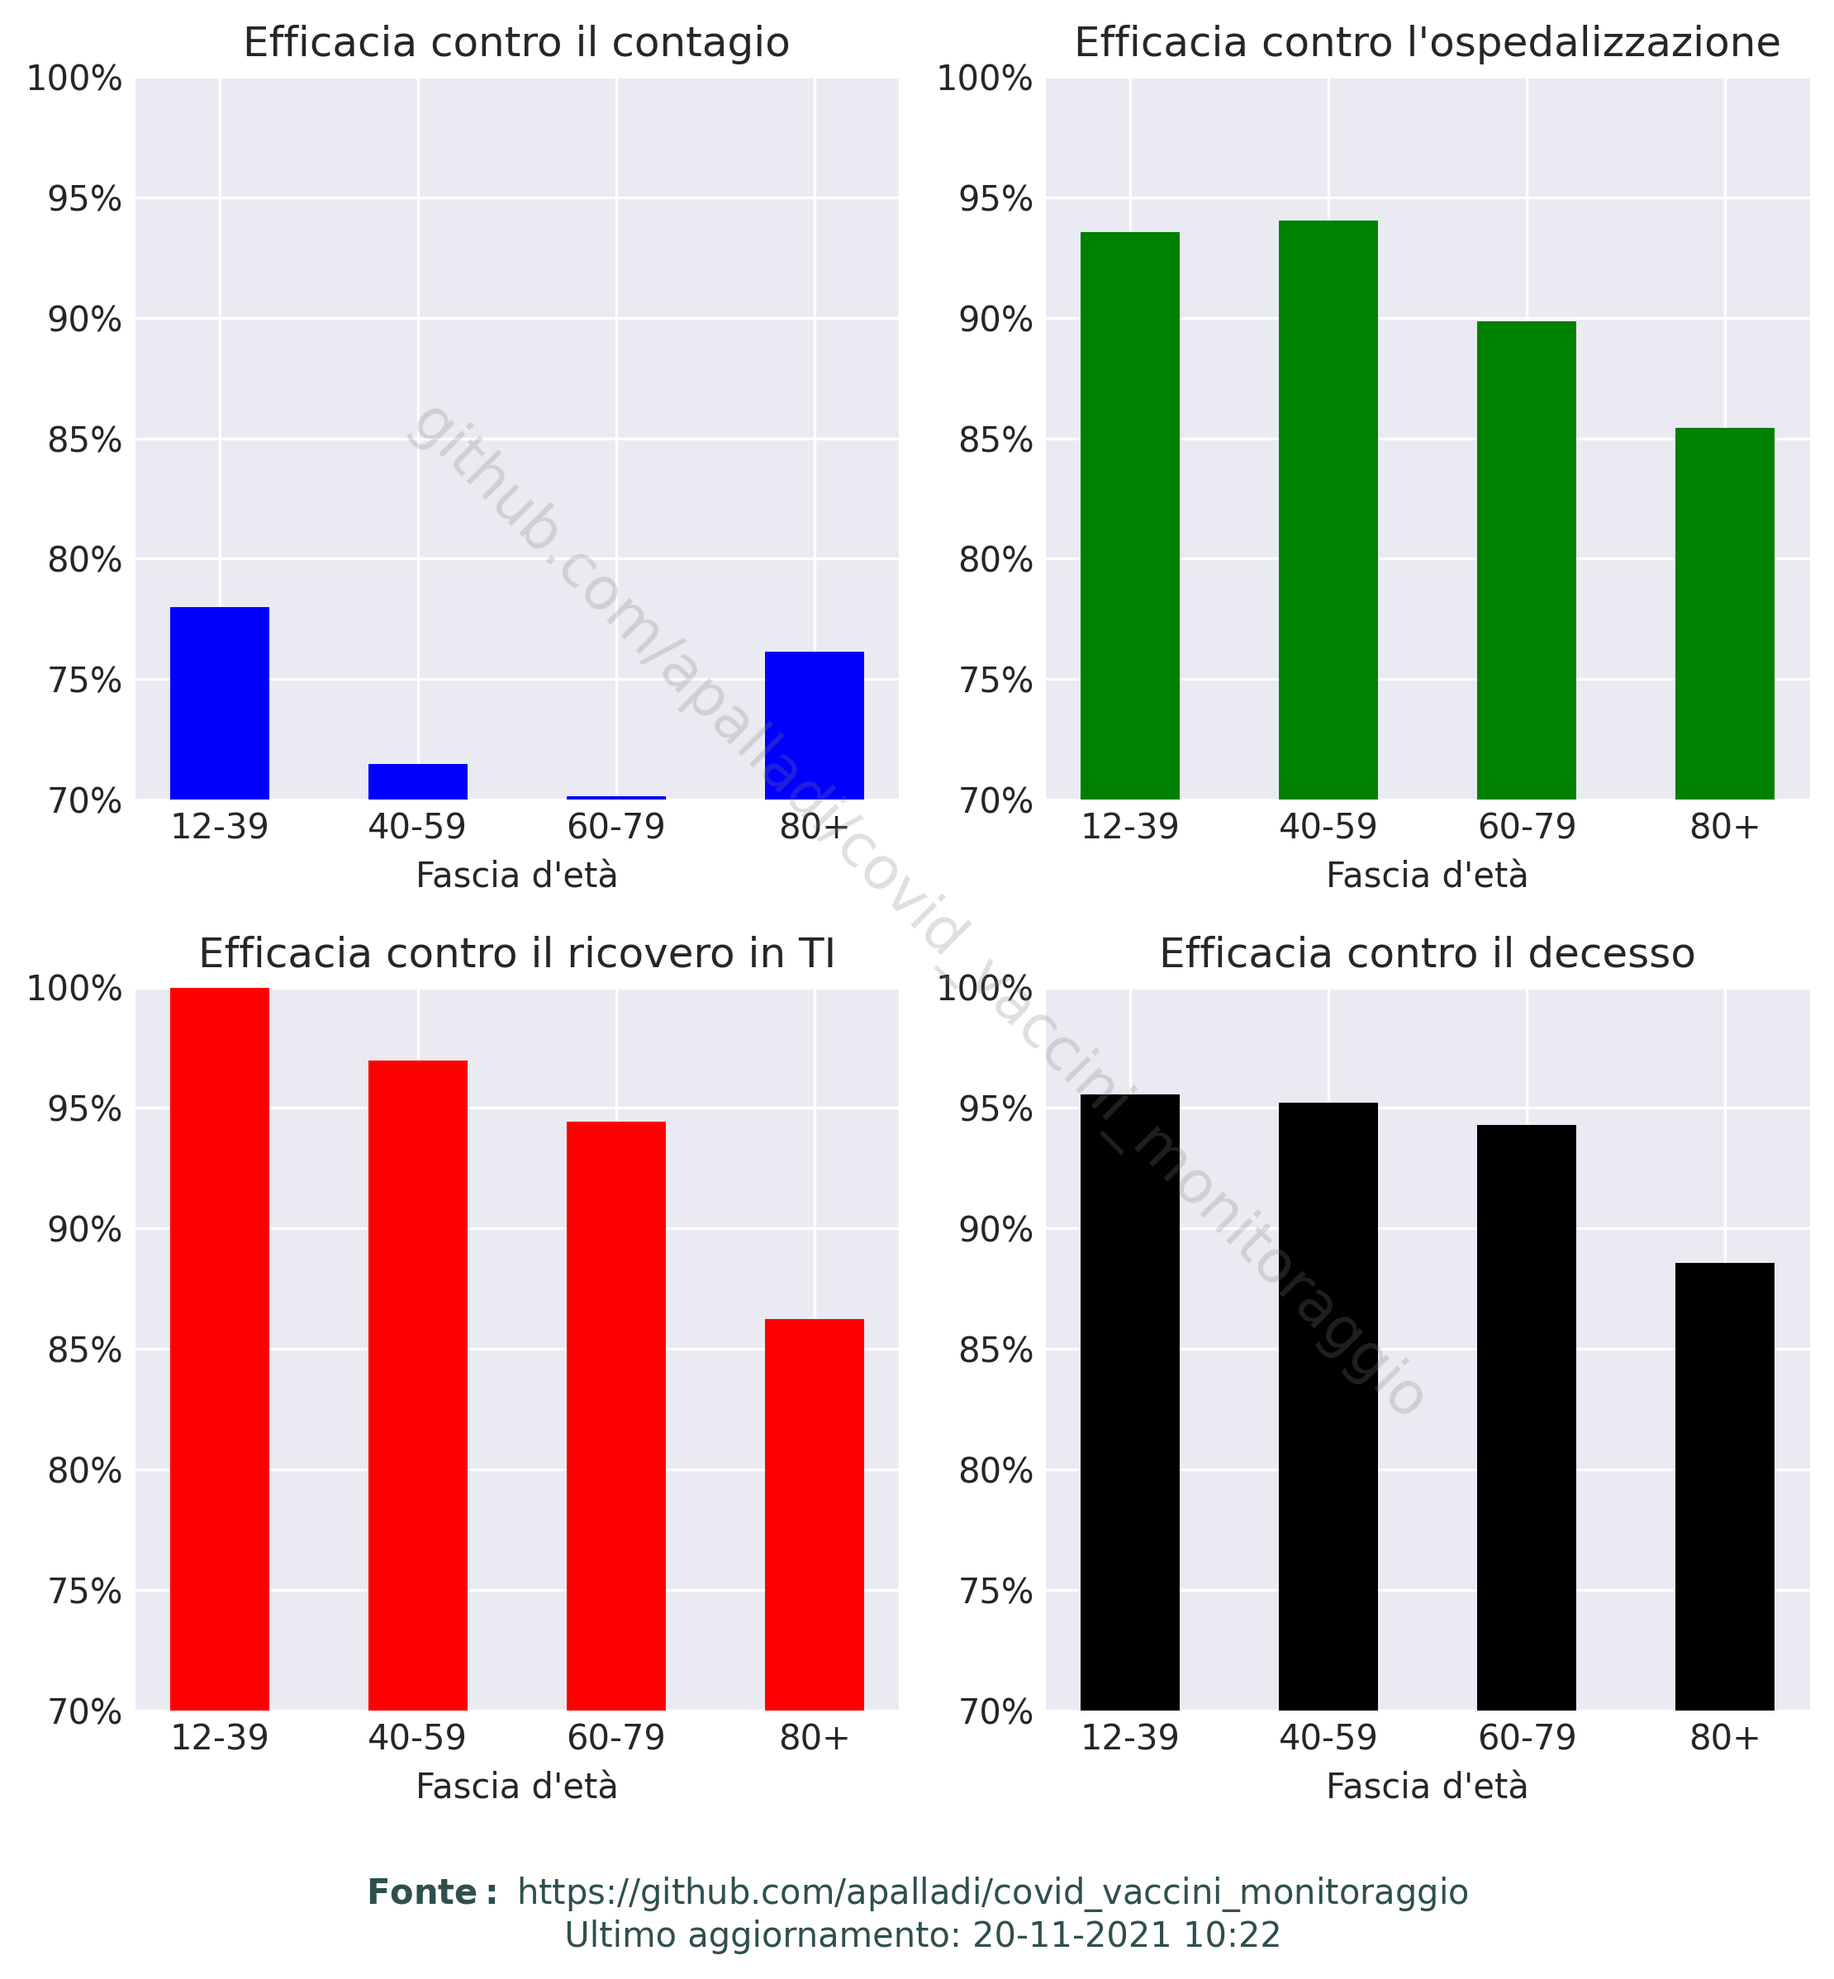
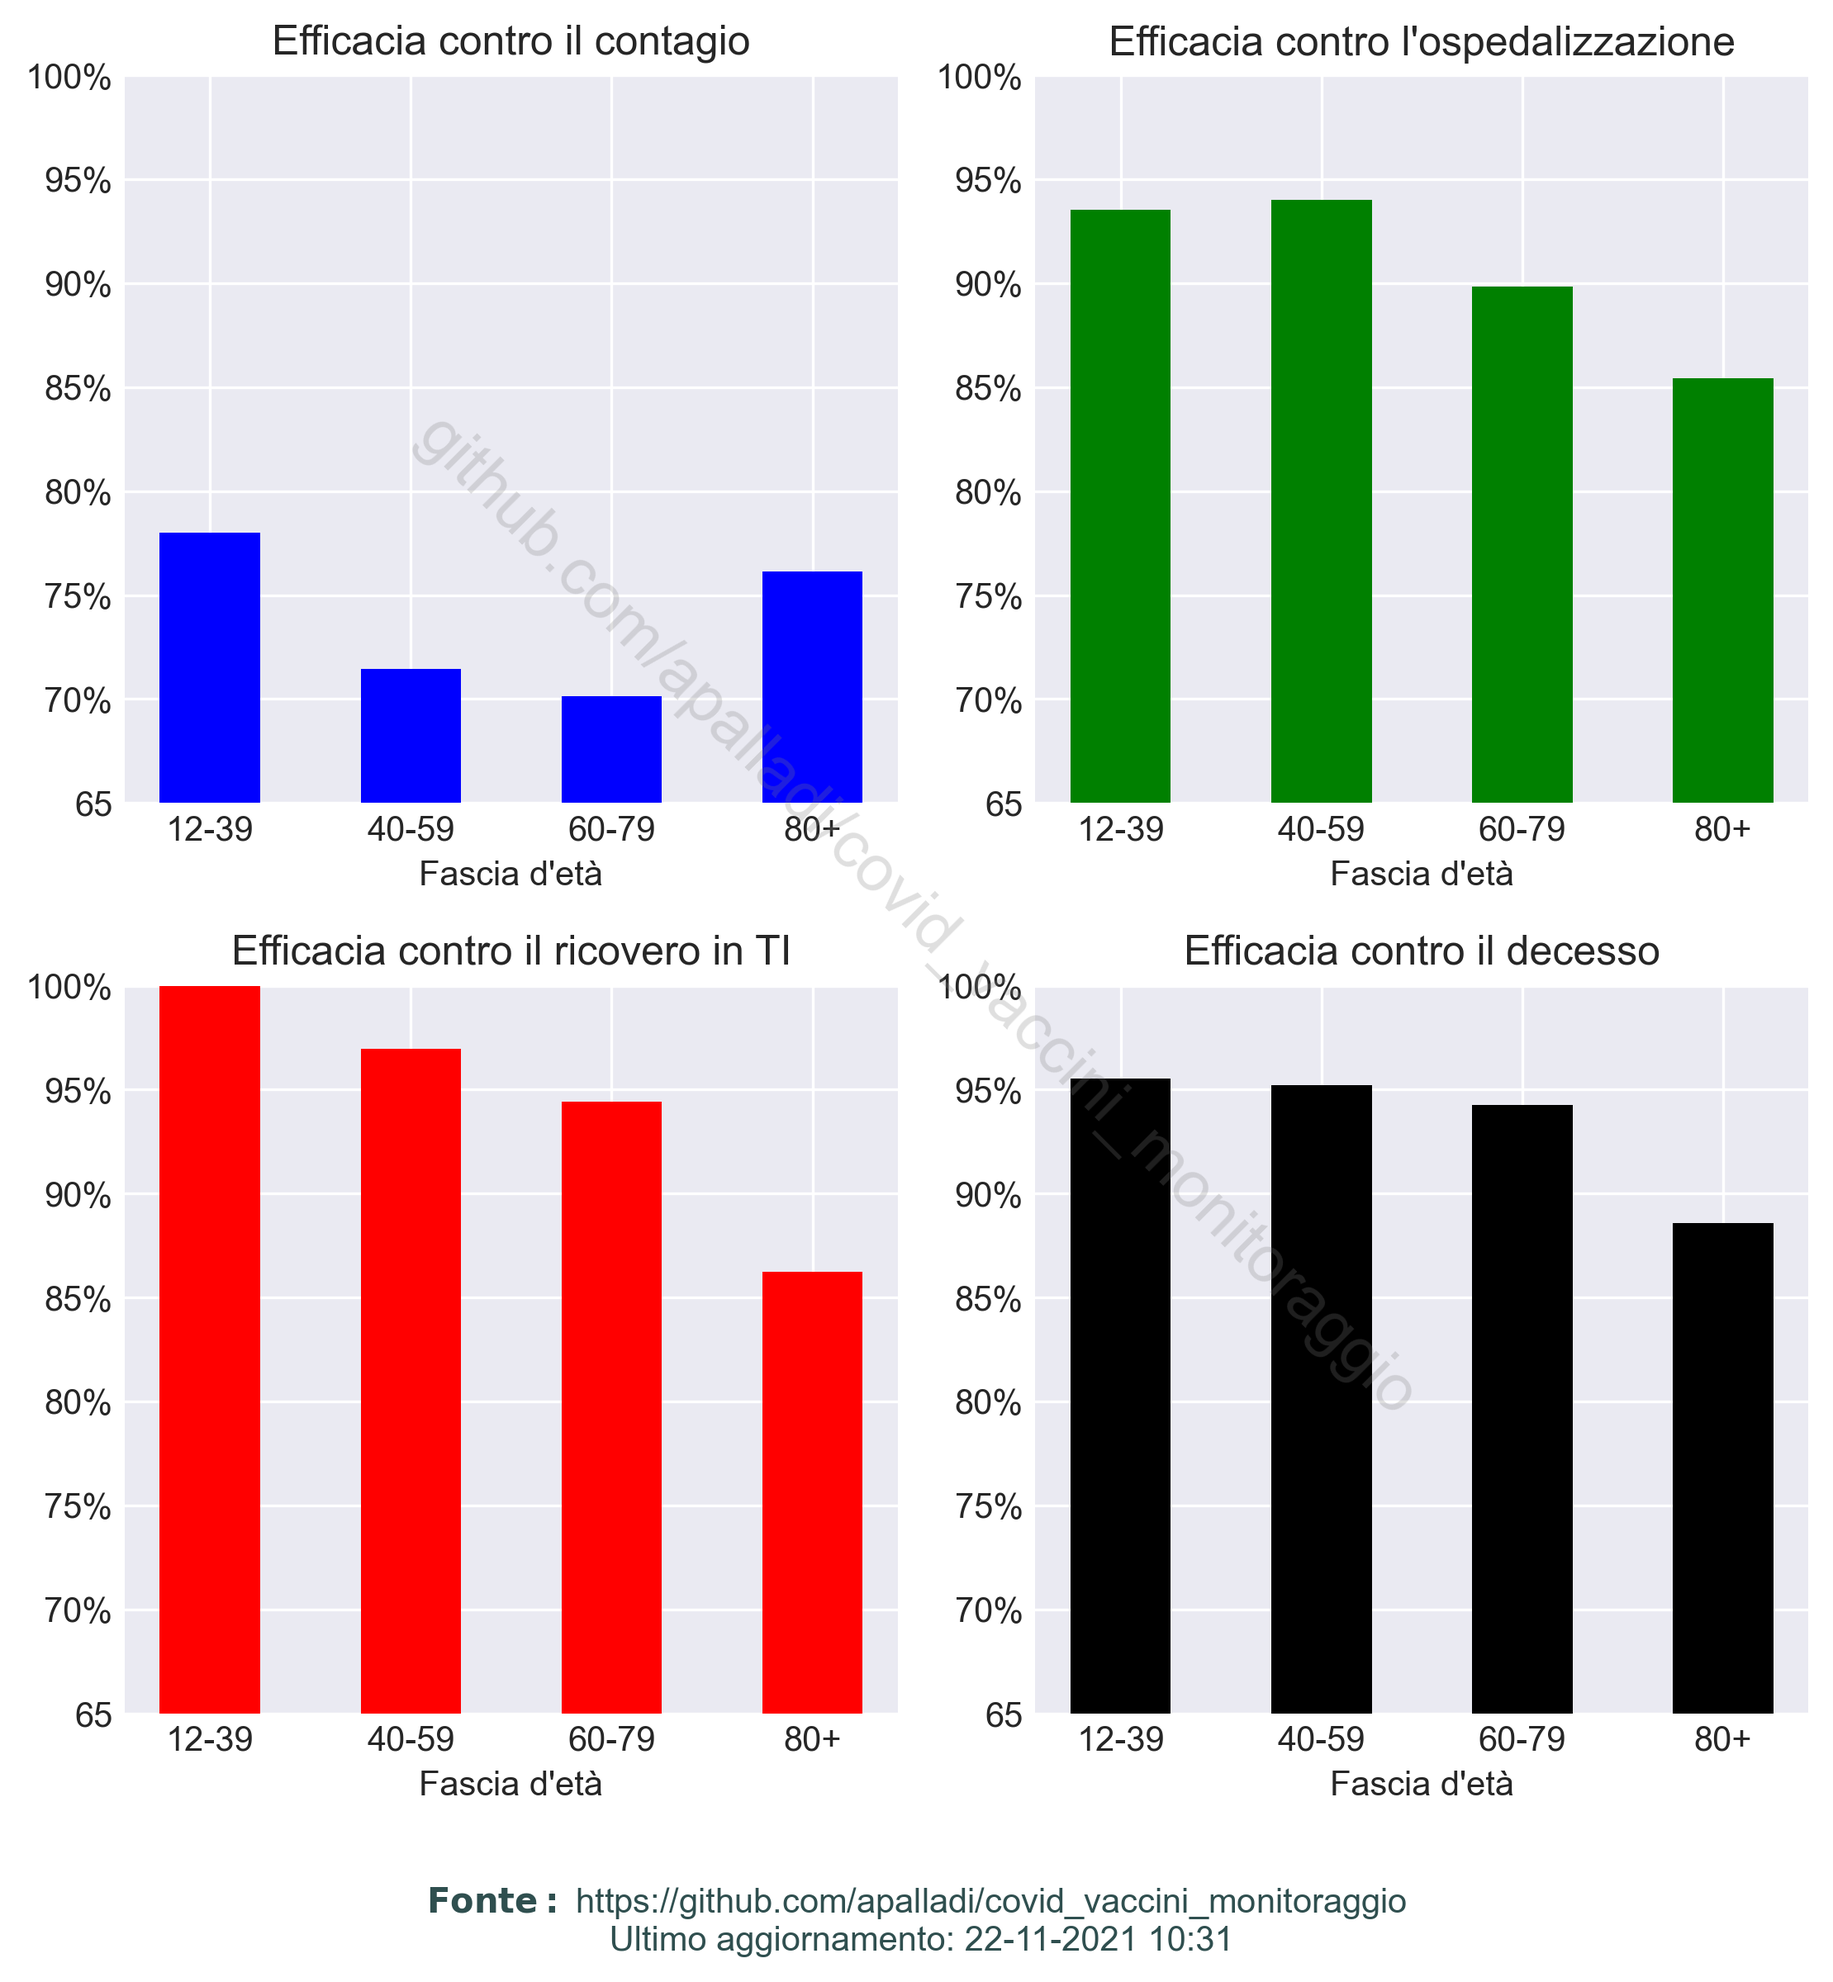
Efficacia vaccini: porta limite y a 65% per migliorare visibilità barre

diff --git a/scripts/efficacia_vaccini.py b/scripts/efficacia_vaccini.py
@@ -69,9 +69,9 @@ def which_axe(axis):
 
 def which_axe_bar(axis):
     """ Imposta proprietà grafici """
-    axis.set_ylim(80, 100)
-    axis.set_yticks(np.arange(70, 101, 5))
-    axis.set_yticklabels(["70%", "75%", "80%", "85%", "90%", "95%", "100%"])
+    axis.set_ylim(65, 100)
+    axis.set_yticks(np.arange(65, 101, 5))
+    axis.set_yticklabels(["65%", "70%", "75%", "80%", "85%", "90%", "95%", "100%"])
     axis.set_xlabel("Fascia d'età")
     axis.grid()
     for tick in axis.get_xticklabels():
@@ -80,11 +80,11 @@ def which_axe_bar(axis):
 
 def add_to_plot():
     """ Imposta proprietà grafici """
-    plt.ylim(70, 100)
+    plt.ylim(65, 100)
     plt.grid()
     plt.xlabel("Fascia d'età")
-    plt.yticks(np.arange(70, 101, 5),
-               ["70%", "75%", "80%", "85%", "90%", "95%", "100%"])
+    plt.yticks(np.arange(65, 101, 5),
+               ["65", "70%", "75%", "80%", "85%", "90%", "95%", "100%"])
 
 
 # Rappresentazione grafica dei risultati
